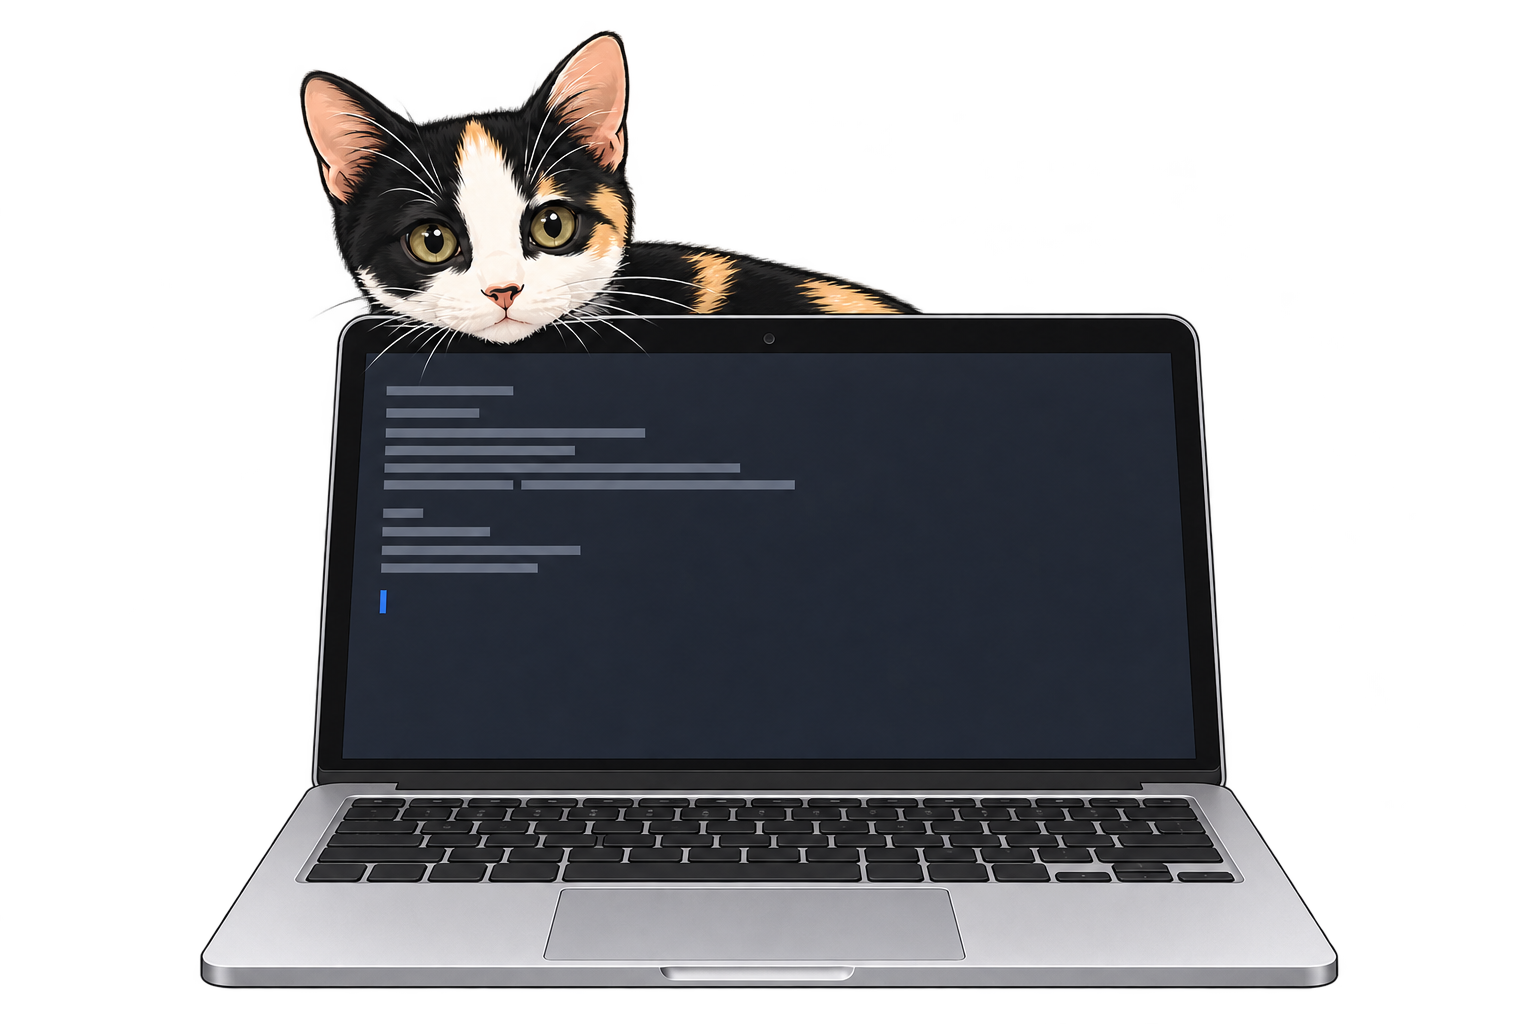
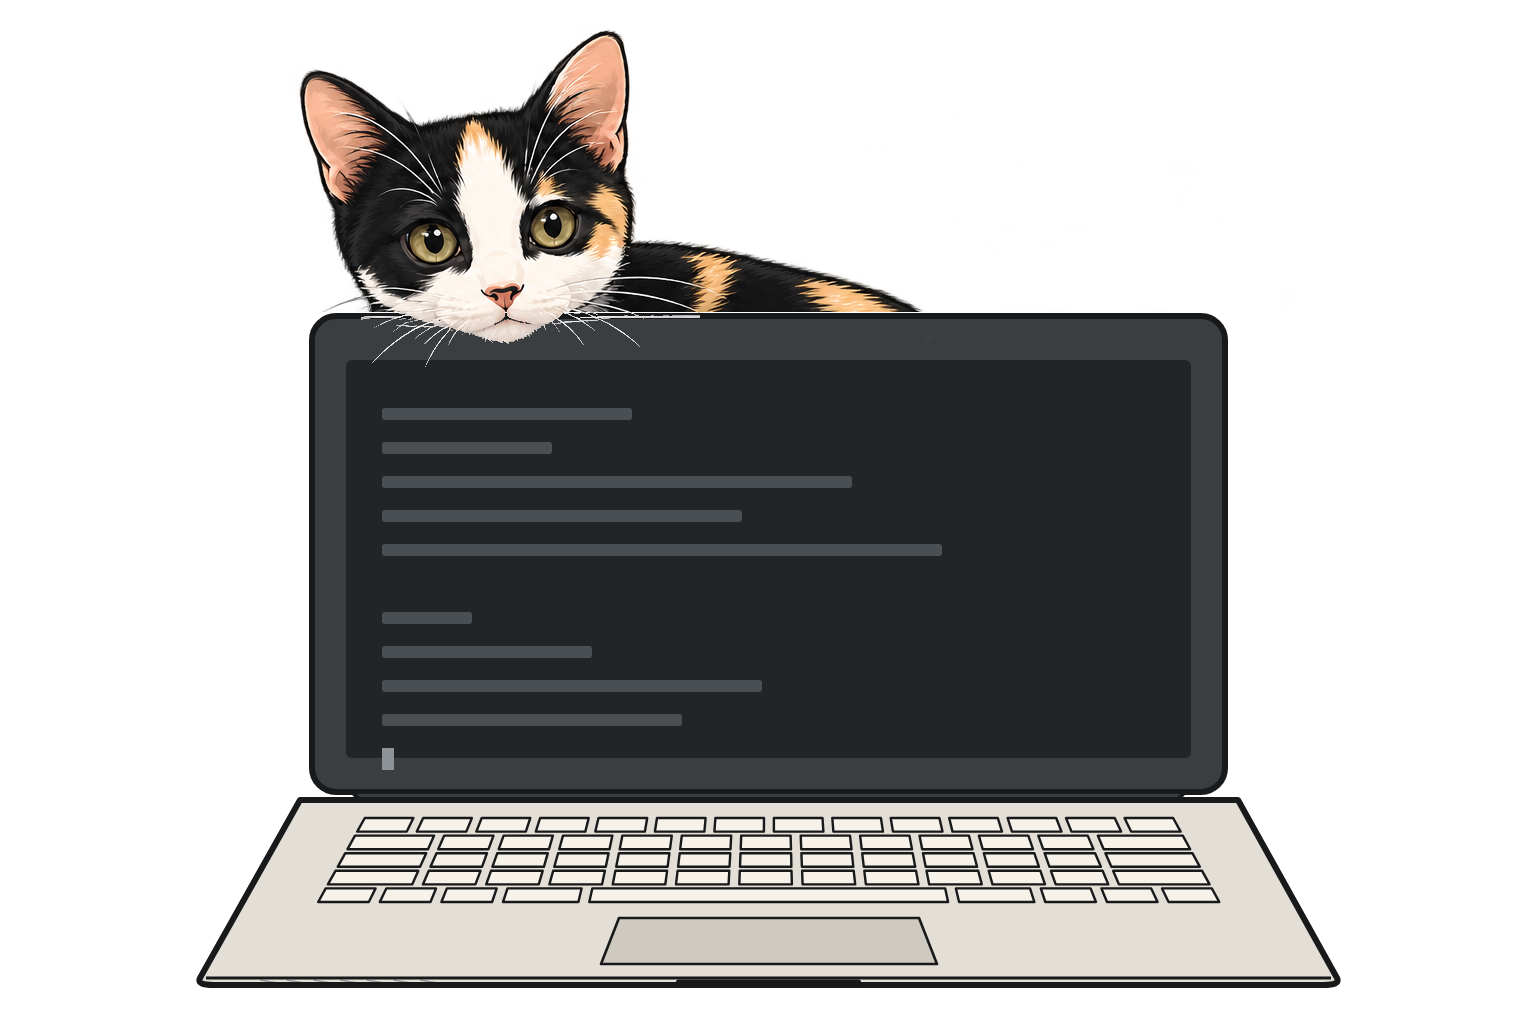
feat(about): 按首页丫丫的画风重画电脑和日记本
原来写实的 MacBook、卡通的丫丫和接近照片的日记本画风不一，视角和比例也对不上。电脑和日记本改为深墨描边、暖灰白平涂的手绘风格，屏幕去掉蓝色光标；日记本改为与电脑同一视高的平放笔记本，按真实比例放大到桌面 98px、手机 76px。丫丫像素与眨眼坐标保持不变，生成脚本为 scripts/gen_about_scene.mjs。

Changed region(s): [[0.125, 0.2812, 0.875, 0.9688]]

diff --git a/assets/scss/custom/_custom.scss b/assets/scss/custom/_custom.scss
@@ -1307,9 +1307,10 @@ button:focus-visible {
     z-index: 3;
     top: 96.5%;
     left: calc(-80% + 8px);
-    width: 60px;
+    // Sized to the laptop: an A5 notebook is a little over half the width of the laptop's base.
+    width: 98px;
     // Align the actual book's bottom edge, excluding transparent padding.
-    transform: translateY(-89%);
+    transform: translateY(-92.5%);
     pointer-events: none;
 }
 
@@ -1327,7 +1328,7 @@ button:focus-visible {
         width: 145%;
         max-width: calc(100vw - 40px);
     }
-    .about-diary { left: calc(-45% + 12px); width: 44px; }
+    .about-diary { left: calc(-45% + 12px); width: 76px; }
 }
 
 .about-next {

diff --git a/design-plans/07-about-yaya-mac.md b/design-plans/07-about-yaya-mac.md
@@ -16,3 +16,12 @@
 最终生成要求：保持幼猫身份和探头姿态，修正旧款银色 MacBook 的屏幕、转轴、键盘为统一透视，减少底座俯视面积；黑白银灰为主，保留三花毛色和小蓝色终端光标，不添加房间、杂物、文字或装饰。原始照片不纳入公开源码。
 
 日记本生成要求：单本合上的旧日记，墨色素面封皮、灰白纸页，略高于桌面的低角度三分之四视角，细墨线和克制的内部质感；透明背景，无文字、彩色书签、投影或其他物体。
+
+## 2026-10-24 统一画风
+
+原稿里写实的 MacBook、卡通的丫丫和接近照片的日记本三种画风并置，视角和比例也不一致，放在页面上显得突兀。现按首页丫丫的画风重画电脑和日记本：
+
+- 深墨色描边、暖灰白平涂、少量细线表现结构，不做写实高光与材质。
+- 电脑保持原来的盖子位置和尺寸、底座下沿（约 96.5%），丫丫的像素原样保留，眨眼坐标不变。屏幕为安静的墨色，只有几行灰色文字和一个灰色光标，去掉蓝色光标。
+- 日记本改为与电脑同一视高的平放笔记本：封面板、内缩的书页、圆弧书脊和一条松紧带，无字。按真实比例约为电脑底座宽度的 0.56，桌面 98px、手机 76px。
+- 生成脚本：`scripts/gen_about_scene.mjs`，可在现有图片上重复运行。
